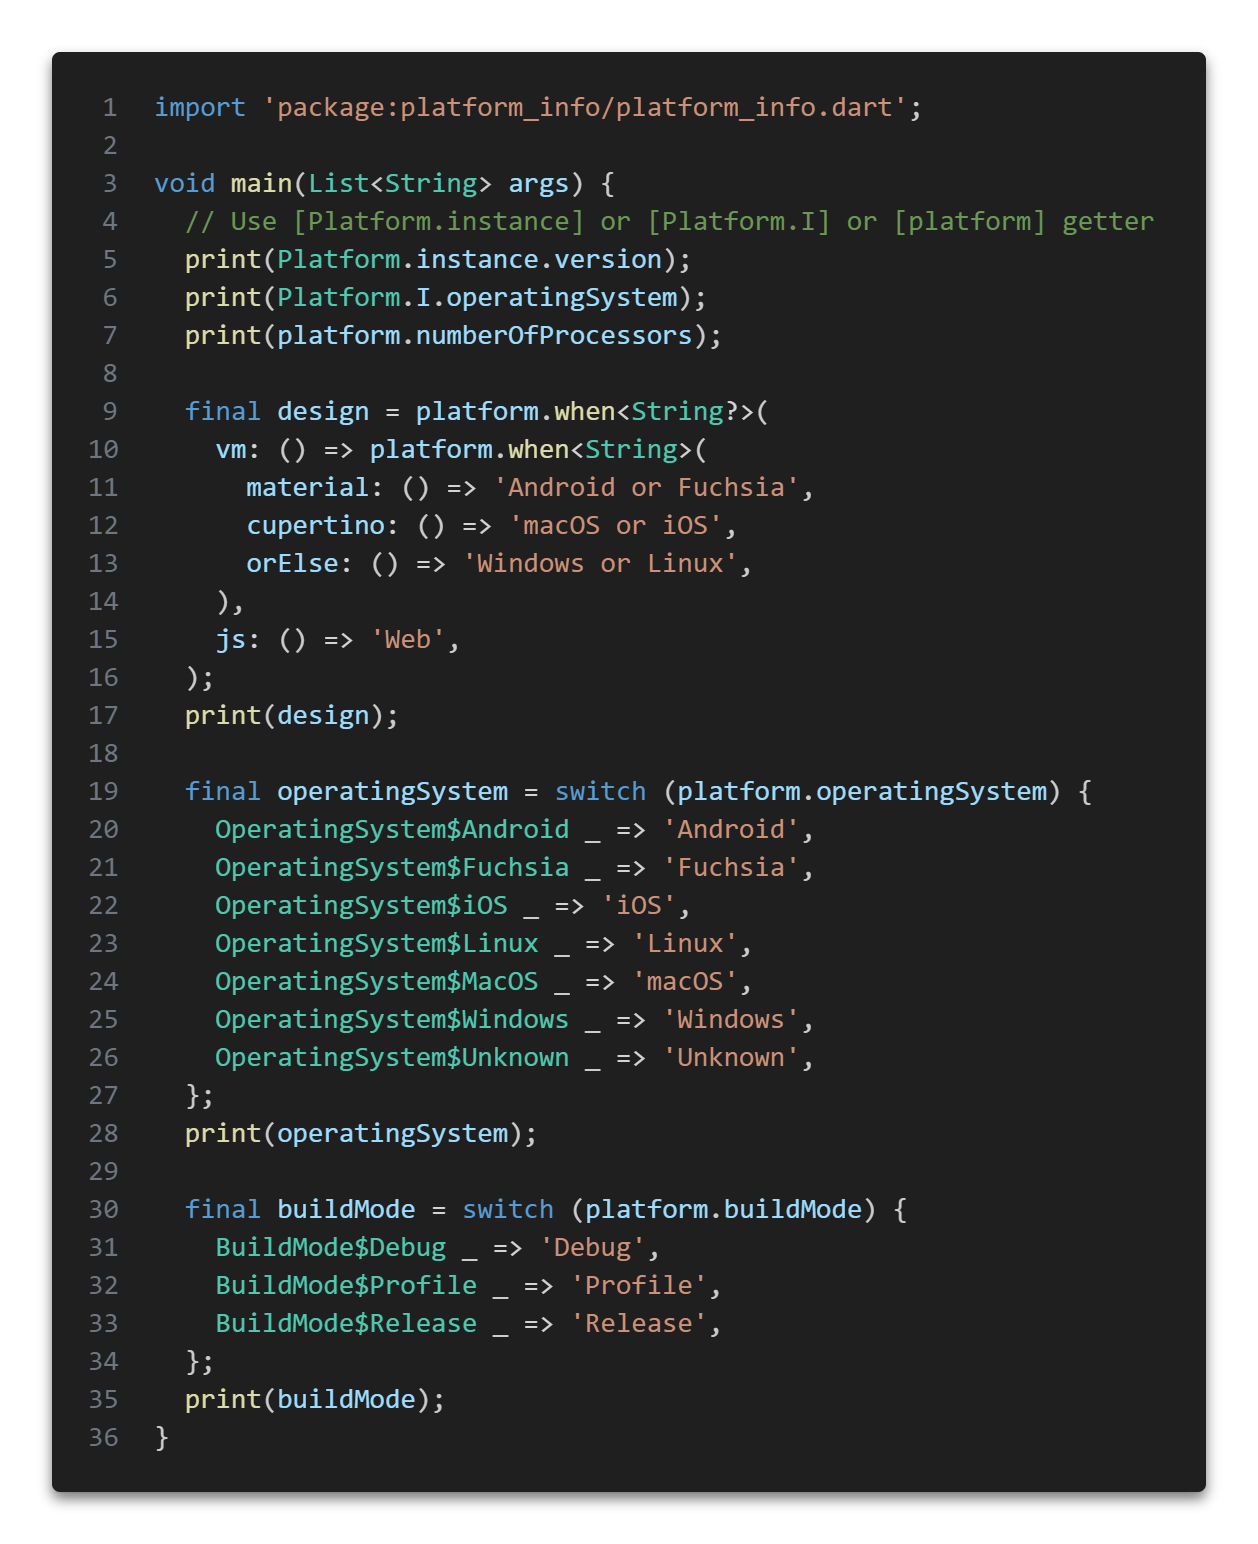
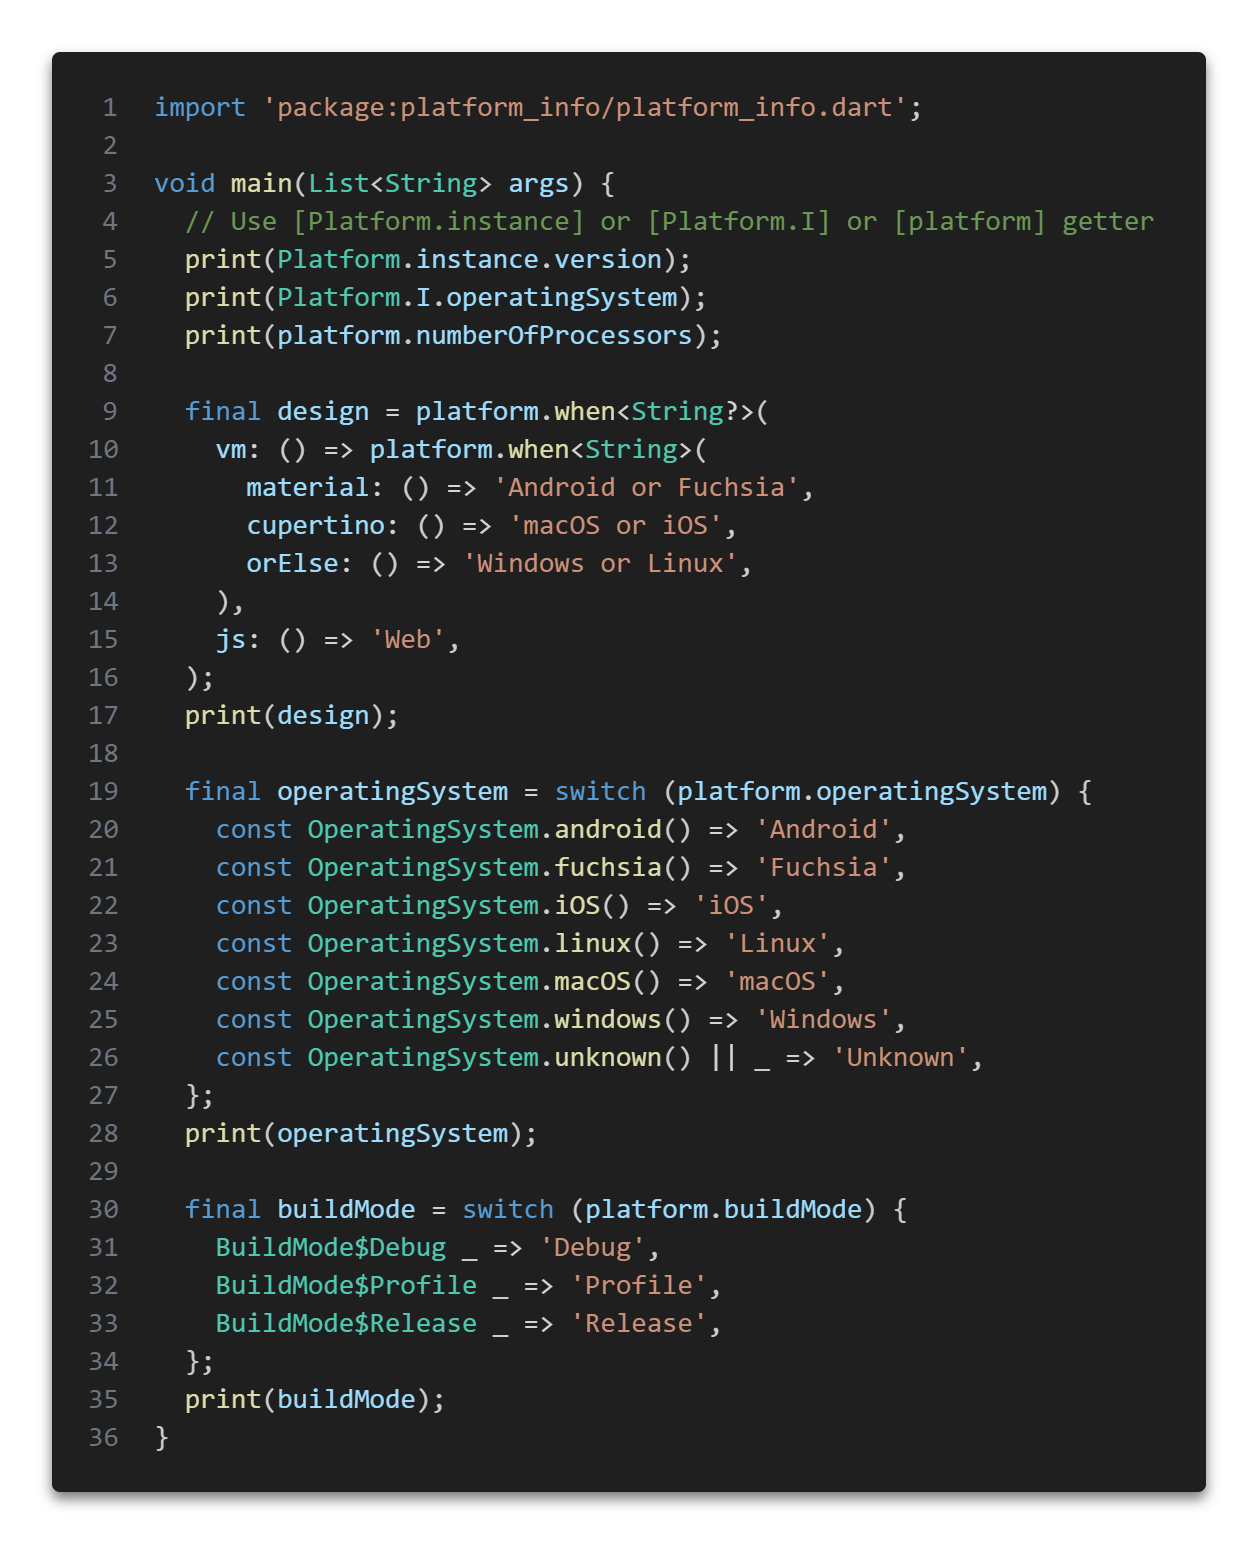
Update example

Changed region(s): [[0.155, 0.5285, 0.713, 0.715], [0.713, 0.6839, 0.744, 0.715]]

diff --git a/example/main.dart b/example/main.dart
@@ -19,13 +19,13 @@ void main(List<String> args) {
   print(design);
 
   final operatingSystem = switch (platform.operatingSystem) {
-    OperatingSystem$Android _ => 'Android',
-    OperatingSystem$Fuchsia _ => 'Fuchsia',
-    OperatingSystem$iOS _ => 'iOS',
-    OperatingSystem$Linux _ => 'Linux',
-    OperatingSystem$MacOS _ => 'macOS',
-    OperatingSystem$Windows _ => 'Windows',
-    OperatingSystem$Unknown _ => 'Unknown',
+    const OperatingSystem.android() => 'Android',
+    const OperatingSystem.fuchsia() => 'Fuchsia',
+    const OperatingSystem.iOS() => 'iOS',
+    const OperatingSystem.linux() => 'Linux',
+    const OperatingSystem.macOS() => 'macOS',
+    const OperatingSystem.windows() => 'Windows',
+    const OperatingSystem.unknown() || _ => 'Unknown',
   };
   print(operatingSystem);
 
